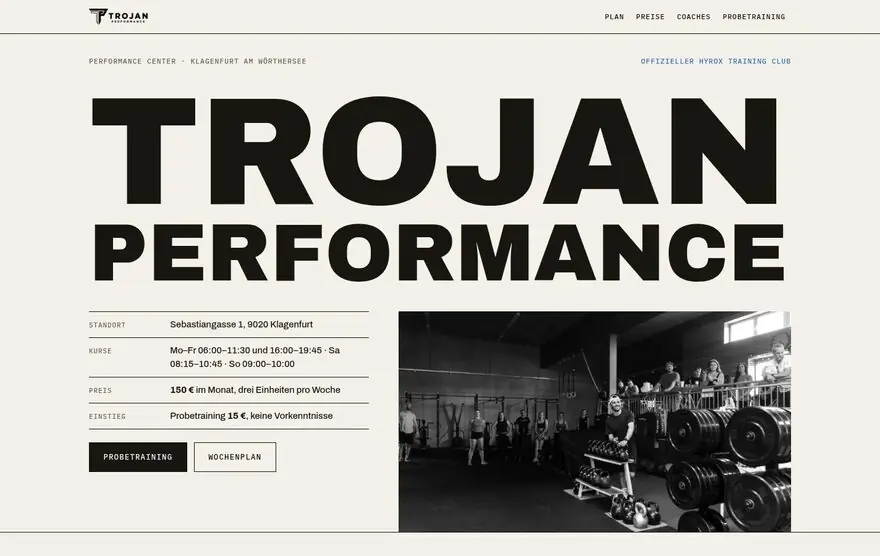
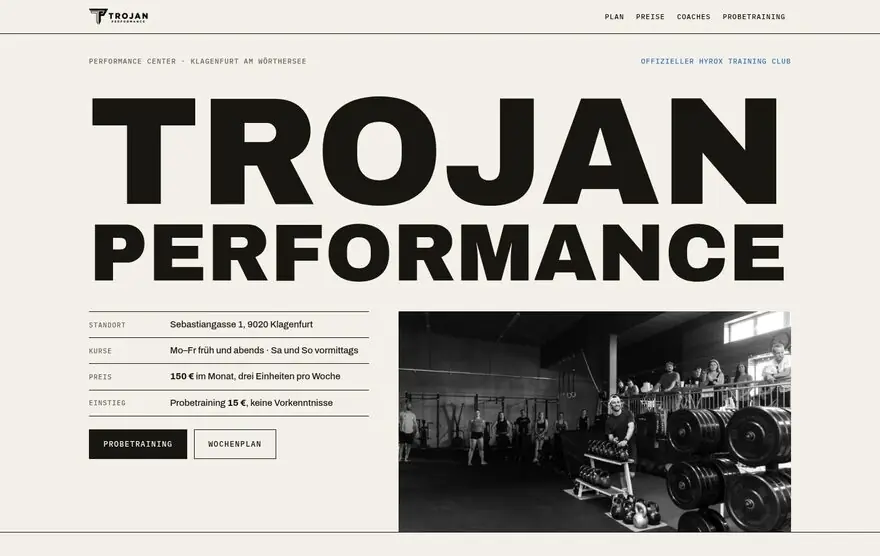
Rotstift: die Kurse-Zeile sagt die Form der Woche statt Zeitspannen
Im Datenblatt stand "Mo–Fr 06:00–11:30 und 16:00–19:45 · Sa 08:15–10:45 · So
09:00–10:00". Das ist die Vereinigung über fünf Tage und sieht aus wie ein
Öffnungsfenster: am Montag steht vormittags ein einziger Kurs, um 08:15. Es war
zugleich die längste und dichteste Zeile über dem Falz, in einem Block, den man
überfliegen können soll.

Jetzt: "Mo–Fr früh und abends · Sa und So vormittags". Weiter live aus der
Schnittstelle, aus denselben Zeitgruppen, nur als Wort statt als Spanne. Die
Regel: eine Gruppe vor 12 Uhr heisst "früh", wenn der erste Kurs vor acht
beginnt, sonst "vormittags"; eine Gruppe nach 12 Uhr heisst "abends", wenn der
letzte nach 18 Uhr endet, sonst "nachmittags". Tage mit gleicher Beschreibung
werden zusammengezogen, solange die Beschreibung selbst kein "und" enthält.

Geprüft an vier Wochen: jeder Werktag hat tatsächlich einen Kurs am Morgen und
einen, der nach 18 Uhr endet; Samstag und Sonntag haben nur Vormittagskurse.
Die genauen Zeiten stehen einen Bildschirm weiter im Plan, exakt und antippbar.

Dazu der Preisabsatz in einem Stück statt in zweien: die Feststellung zum Preis
und ihre Begründung sind jetzt ein Satz, verbunden mit Komma statt Punkt.

Claude-Session: https://claude.ai/code/session_011seyKRZKnHmVqc44yjkGAQ

Changed region(s): [[0.092, 0.6115, 0.4295, 0.8561]]

diff --git a/rotstift/index.html b/rotstift/index.html
@@ -515,8 +515,7 @@ figure.bild img{width:100%;filter:grayscale(1) contrast(1.1) brightness(1.04)}
              Stelle, an der das Gym für sich einsteht, spricht es auch als es
              selbst. Die drei Zusagen sind gedeckt — ein Coach in jedem Kurs,
              75 Minuten je Einheit, begrenzte Plätze. -->
-        <p class="satz">Empfohlen für den Einstieg: drei Einheiten pro Woche, zwei für die Kraft, eine für die Ausdauer.</p>
-        <p class="satz">Nicht das billigste Gym der Stadt. Dafür sparen wir nicht an Betreuung, nicht an Zeit und nicht an Platz im Kurs.</p>
+        <p class="satz">Empfohlen für den Einstieg: drei Einheiten pro Woche, zwei für die Kraft, eine für die Ausdauer. Nicht das billigste Gym der Stadt, dafür sparen wir nicht an Betreuung, nicht an Zeit und nicht an Platz im Kurs.</p>
       </div>
 
       <details class="mehr auf" style="margin-top:2.6rem">
@@ -779,24 +778,44 @@ function endzeit(e){
   return String(Math.floor(min/60)).padStart(2,'0')+':'+String(min%60).padStart(2,'0');
 }
 
+// Die Zeile im Datenblatt sagt die Grobform der Woche, nicht die Zeitspannen.
+// Vorher stand dort „Mo–Fr 06:00–11:30 und 16:00–19:45" — die Vereinigung über
+// fünf Tage, die aussieht wie ein Öffnungsfenster. Am Montag steht vormittags
+// ein einziger Kurs, um 08:15. Dieselbe Sorte Fehler wie „acht Kurse": eine
+// Zusammenfassung, die der Wochenplan darunter widerlegt, sobald jemand
+// nachsieht. Die Worte hier sind an jedem einzelnen Tag wahr, und die genauen
+// Zeiten stehen einen Bildschirm weiter im Plan, exakt und antippbar.
 function zusammenfassung(evts){
-  function fenster(gruppe){
-    var cluster=[gruppe.filter(function(e){return e.zeit<'12:00';}),
-                 gruppe.filter(function(e){return e.zeit>='12:00';})]
-                .filter(function(c){return c.length;});
-    return cluster.map(function(c){
-      var von=c.map(function(e){return e.zeit;}).sort()[0];
-      var bis=c.map(endzeit).sort().slice(-1)[0];
-      return von+'–'+bis;
-    }).join(' und ');
+  function wort(gruppe){
+    var teile=[];
+    var frueh=gruppe.filter(function(e){return e.zeit<'12:00';});
+    var spaet=gruppe.filter(function(e){return e.zeit>='12:00';});
+    if(frueh.length){
+      var start=frueh.map(function(e){return e.zeit;}).sort()[0];
+      teile.push(start<'08:00'?'früh':'vormittags');
+    }
+    if(spaet.length){
+      var ende=spaet.map(endzeit).sort().slice(-1)[0];
+      teile.push(ende>='18:00'?'abends':'nachmittags');
+    }
+    return teile.join(' und ');
   }
+  var block=[['Mo–Fr',evts.filter(function(e){return e.tag<=4;})],
+             ['Sa',evts.filter(function(e){return e.tag===5;})],
+             ['So',evts.filter(function(e){return e.tag===6;})]]
+    .filter(function(b){return b[1].length;})
+    .map(function(b){return [b[0],wort(b[1])];});
+  // Benachbarte Tage mit gleicher Beschreibung zusammenziehen: „Sa und So
+  // vormittags". Nur, wenn die Beschreibung selbst kein „und" enthält, sonst
+  // stünde da „Mo–Fr und Sa früh und abends".
   var teile=[];
-  var mofr=evts.filter(function(e){return e.tag<=4;});
-  var sa=evts.filter(function(e){return e.tag===5;});
-  var so=evts.filter(function(e){return e.tag===6;});
-  if(mofr.length)teile.push('Mo–Fr '+fenster(mofr));
-  if(sa.length)teile.push('Sa '+fenster(sa));
-  if(so.length)teile.push('So '+fenster(so));
+  for(var i=0;i<block.length;i++){
+    var tage=[block[i][0]];
+    while(i+1<block.length && block[i+1][1]===block[i][1] && block[i][1].indexOf(' und ')<0){
+      tage.push(block[i+1][0]); i++;
+    }
+    teile.push(tage.join(' und ')+' '+block[i][1]);
+  }
   return teile.join(' · ');
 }
 

diff --git a/src/trojan-H-rotstift.src.html b/src/trojan-H-rotstift.src.html
@@ -513,8 +513,7 @@ figure.bild img{width:100%;filter:grayscale(1) contrast(1.1) brightness(1.04)}
              Stelle, an der das Gym für sich einsteht, spricht es auch als es
              selbst. Die drei Zusagen sind gedeckt — ein Coach in jedem Kurs,
              75 Minuten je Einheit, begrenzte Plätze. -->
-        <p class="satz">Empfohlen für den Einstieg: drei Einheiten pro Woche, zwei für die Kraft, eine für die Ausdauer.</p>
-        <p class="satz">Nicht das billigste Gym der Stadt. Dafür sparen wir nicht an Betreuung, nicht an Zeit und nicht an Platz im Kurs.</p>
+        <p class="satz">Empfohlen für den Einstieg: drei Einheiten pro Woche, zwei für die Kraft, eine für die Ausdauer. Nicht das billigste Gym der Stadt, dafür sparen wir nicht an Betreuung, nicht an Zeit und nicht an Platz im Kurs.</p>
       </div>
 
       <details class="mehr auf" style="margin-top:2.6rem">
@@ -777,24 +776,44 @@ function endzeit(e){
   return String(Math.floor(min/60)).padStart(2,'0')+':'+String(min%60).padStart(2,'0');
 }
 
+// Die Zeile im Datenblatt sagt die Grobform der Woche, nicht die Zeitspannen.
+// Vorher stand dort „Mo–Fr 06:00–11:30 und 16:00–19:45" — die Vereinigung über
+// fünf Tage, die aussieht wie ein Öffnungsfenster. Am Montag steht vormittags
+// ein einziger Kurs, um 08:15. Dieselbe Sorte Fehler wie „acht Kurse": eine
+// Zusammenfassung, die der Wochenplan darunter widerlegt, sobald jemand
+// nachsieht. Die Worte hier sind an jedem einzelnen Tag wahr, und die genauen
+// Zeiten stehen einen Bildschirm weiter im Plan, exakt und antippbar.
 function zusammenfassung(evts){
-  function fenster(gruppe){
-    var cluster=[gruppe.filter(function(e){return e.zeit<'12:00';}),
-                 gruppe.filter(function(e){return e.zeit>='12:00';})]
-                .filter(function(c){return c.length;});
-    return cluster.map(function(c){
-      var von=c.map(function(e){return e.zeit;}).sort()[0];
-      var bis=c.map(endzeit).sort().slice(-1)[0];
-      return von+'–'+bis;
-    }).join(' und ');
+  function wort(gruppe){
+    var teile=[];
+    var frueh=gruppe.filter(function(e){return e.zeit<'12:00';});
+    var spaet=gruppe.filter(function(e){return e.zeit>='12:00';});
+    if(frueh.length){
+      var start=frueh.map(function(e){return e.zeit;}).sort()[0];
+      teile.push(start<'08:00'?'früh':'vormittags');
+    }
+    if(spaet.length){
+      var ende=spaet.map(endzeit).sort().slice(-1)[0];
+      teile.push(ende>='18:00'?'abends':'nachmittags');
+    }
+    return teile.join(' und ');
   }
+  var block=[['Mo–Fr',evts.filter(function(e){return e.tag<=4;})],
+             ['Sa',evts.filter(function(e){return e.tag===5;})],
+             ['So',evts.filter(function(e){return e.tag===6;})]]
+    .filter(function(b){return b[1].length;})
+    .map(function(b){return [b[0],wort(b[1])];});
+  // Benachbarte Tage mit gleicher Beschreibung zusammenziehen: „Sa und So
+  // vormittags". Nur, wenn die Beschreibung selbst kein „und" enthält, sonst
+  // stünde da „Mo–Fr und Sa früh und abends".
   var teile=[];
-  var mofr=evts.filter(function(e){return e.tag<=4;});
-  var sa=evts.filter(function(e){return e.tag===5;});
-  var so=evts.filter(function(e){return e.tag===6;});
-  if(mofr.length)teile.push('Mo–Fr '+fenster(mofr));
-  if(sa.length)teile.push('Sa '+fenster(sa));
-  if(so.length)teile.push('So '+fenster(so));
+  for(var i=0;i<block.length;i++){
+    var tage=[block[i][0]];
+    while(i+1<block.length && block[i+1][1]===block[i][1] && block[i][1].indexOf(' und ')<0){
+      tage.push(block[i+1][0]); i++;
+    }
+    teile.push(tage.join(' und ')+' '+block[i][1]);
+  }
   return teile.join(' · ');
 }
 
